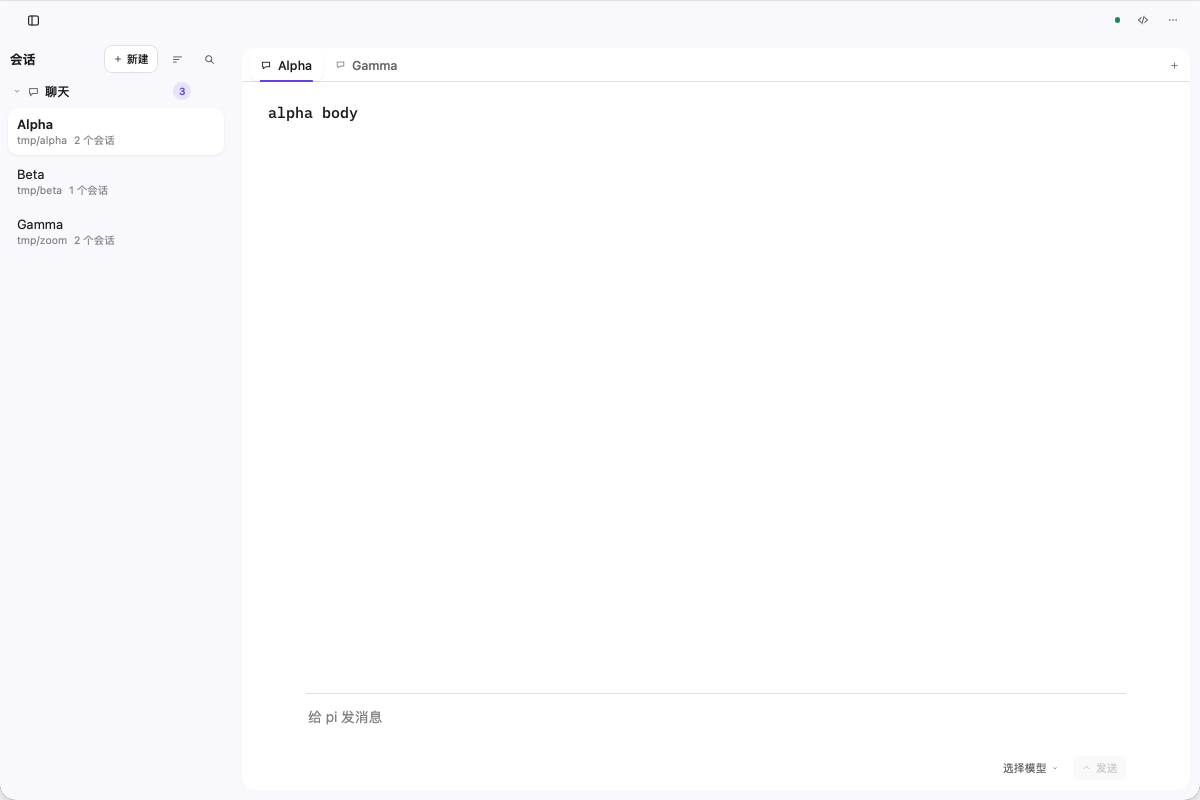
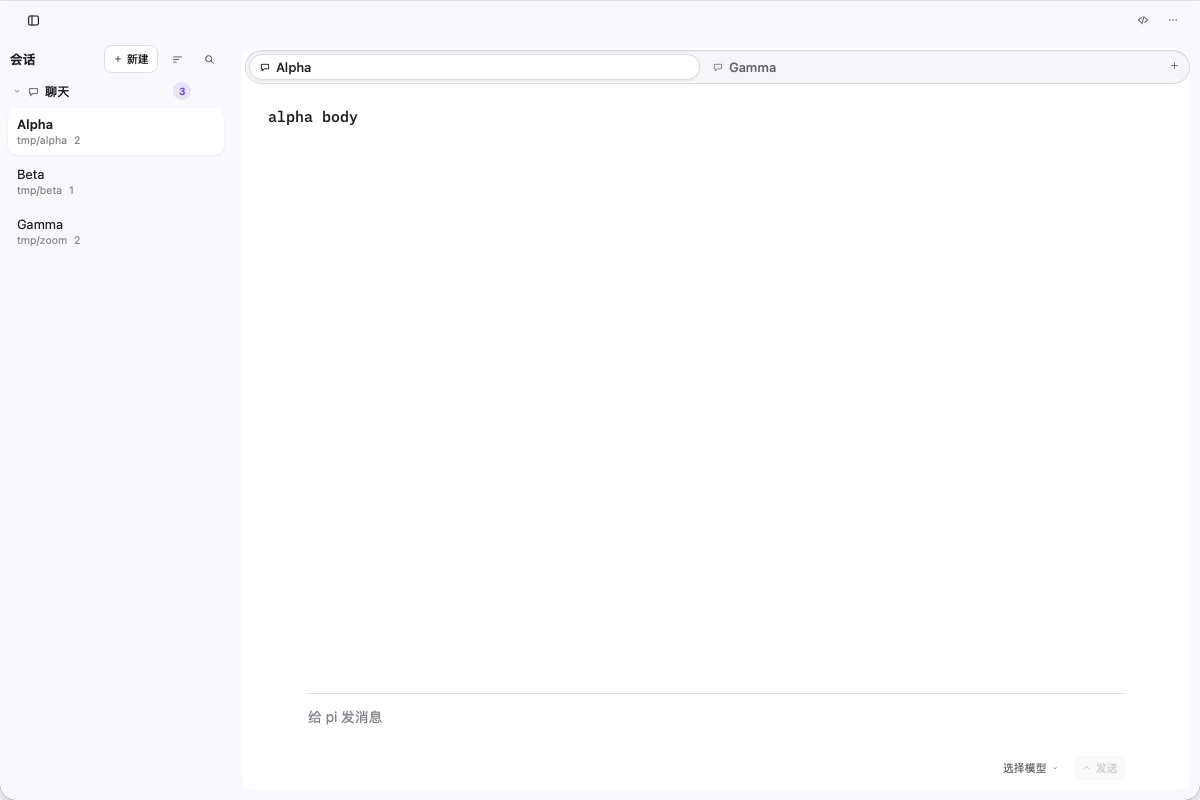
feat(shell): the sheet tabs become the gallery's section switcher
The canvas's tab bar takes the gallery's `tabsLook` ("A section switcher",
`examples/nsh-gallery-ui/look/tabs.tsx`): a capsule track sunk into the
card, the tabs sharing it, the selected tab a pill standing off the track.
The look is ported (`switcherTrack` / `switcherPill` / `switcherTabFrame` in
`ui/ui.tsx`), not its JSX: `DockArea` still owns placement, drag and drop.

The gallery's pill is one native indicator the core springs across the
track; `DockArea` reports no tab bounds, so here it cross-fades between two
tabs instead (180 ms). DESIGN §3.2 records the geometry and the trade.

- theme: `shadow-inset` (the track's top lip) instead of a raw rgba
- `motion.medium` eases `border-color`, so a pill takes its edge with it
- the 2pt brand underline goes; the glyph crosses over between two tints;
  the `+` keeps its 34pt strip inside the track's right end

Gates: `nsh check app` ✓; `nsh test .` 215 cases, 207 passed, 8 skipped ✓.
Light-mode screenshot compared against the gallery's switcher.

diff --git a/app/shell/shell.tsx b/app/shell/shell.tsx
@@ -37,7 +37,7 @@ import { setShellActions } from "../core/shell-actions";
 import { K, t } from "../ui/i18n";
 import { openActiveInVSCode } from "./vscode";
 import { containerMatches } from "./search";
-import { Chip, Dot, Glyph, type GlyphName, motionStyle, shadowCard, shadowRaised } from "../ui/ui";
+import { Chip, Dot, Glyph, type GlyphName, motionStyle, shadowCard, shadowRaised, switcherPill, switcherTabFrame, switcherTrack } from "../ui/ui";
 import { TabBarPlus } from "../canvas/tab-plus";
 
 /**
@@ -613,6 +613,24 @@ function canvasPanels(): Array<{ id: string; closable: boolean }> {
 }
 
 /**
+ * A switcher tab's glyph, two tints crossing over (the gallery's
+ * `TabTitle`): the quiet one fades out as the selected one fades in, both
+ * drawn in the same box so nothing shifts.
+ */
+function SwitcherGlyph(props: { panel: string; active: boolean }) {
+  return (
+    <View style={{ width: 12, height: 12, flexShrink: 0 }}>
+      <View style={{ position: "absolute", opacity: props.active ? 0 : 1, ...motionStyle("fast") }}>
+        <Glyph name={sheetGlyph(props.panel)} size={12} tint={token("faint")} />
+      </View>
+      <View style={{ position: "absolute", opacity: props.active ? 1 : 0, ...motionStyle("fast") }}>
+        <Glyph name={sheetGlyph(props.panel)} size={12} tint={token("foreground")} />
+      </View>
+    </View>
+  );
+}
+
+/**
  * The canvas: the sheet tree and nothing else. Every surface here is a sheet
  * — a container's conversation, terminal, browser, Hero, or the scratch
  * canvas's Hero — so there is no page state to fall out of step with the
@@ -654,22 +672,24 @@ function Canvas() {
         onZoomChange={({ panel }) => setZoom(panel)}
         onPanelActiveChange={({ panel, active }) => onPanelActive(panel, active)}
         groupClass="flex-1 bg-background overflow-hidden"
-        tabBarClass="flex-row items-end gap-0.5 border-b border-line bg-card px-2"
-        // The right strip is the `+`'s: a tab never ends under the overlay.
-        tabBarStyle={{ height: 34, paddingRight: 30 }}
-        tabClass="group focus-visible:outline-2 focus-visible:outline-ring focus-visible:outline-offset-[-1px] active:opacity-80"
+        // The switcher's capsule track (DESIGN §3.2): the bar is the track,
+        // sunk into the card, and the `+` sits in its right end (the
+        // trailing padding is the overlay's strip, so no tab ends under it).
+        // 2–3pt of card around the capsule: it is a control on the surface,
+        // not the surface's edge (the card's own corners clip at 14).
+        tabBarClass="flex-row"
+        tabBarStyle={{ ...switcherTrack(), marginLeft: 3, marginTop: 2, marginBottom: 2, paddingRight: 3 + 34 }}
+        tabStyle={switcherTabFrame()}
+        tabClass="group focus-visible:outline-2 focus-visible:outline-ring focus-visible:outline-offset-0 active:opacity-80"
         contentClass="flex-1 bg-background overflow-hidden"
         handleClass="basis-px bg-line"
         dropIndicatorClass="rounded-lg border-2 border-brand bg-brand-tint"
         renderDragPreview={(tab) => (
           // The ghost: a tab's shape that follows the pointer (DESIGN §3.7) —
           // card, shadow, its own icon and title.
-          <View
-            class="h-8 flex-row items-center gap-1.5 rounded-lg px-2.5 bg-card"
-            style={{ width: 144, boxShadow: shadowCard() }}
-          >
-            <Glyph name={sheetGlyph(tab.panel)} size={11.5} tint={token("foreground")} />
-            <Text class="text-[12.5px] font-medium text-foreground" style={{ numberOfLines: 1 }}>
+          <View class="bg-card" style={{ width: 144, ...switcherPill(true) }}>
+            <Glyph name={sheetGlyph(tab.panel)} size={12} tint={token("foreground")} />
+            <Text class="text-[13px] font-medium text-foreground" style={{ numberOfLines: 1 }}>
               {sheetTitle(tab.panel)}
             </Text>
           </View>
@@ -684,25 +704,18 @@ function Canvas() {
           )
         }
         renderTab={(tab) => (
-          // Chrome-style widths (DESIGN §3.2): 72–240, squeezed evenly when
-          // the panel narrows or tabs multiply; the title truncates.
+          // A switcher tab (DESIGN §3.2, the gallery's `tabsLook`): the
+          // selected one a pill standing off the track, the others bare until
+          // the pointer. The tabs share the track equally (`switcherTabFrame`)
+          // and squeeze together at 72pt, where the title truncates.
           <View
-            class={`relative h-8 flex-row items-center gap-1.5 rounded-lg px-2.5 ${tab.active ? "bg-card" : "hover:bg-hover"}`}
-            style={{
-              minWidth: 72,
-              maxWidth: 240,
-              flexGrow: 0,
-              flexShrink: 1,
-              borderRadius: 8,
-              backgroundColor: tab.active ? token("card") : "transparent",
-              boxShadow: tab.active ? shadowCard() : "none",
-              ...motionStyle("medium"),
-            }}
+            class={`relative min-w-0 ${tab.active ? "" : "hover:bg-hover"}`}
+            style={switcherPill(tab.active)}
           >
-            <Glyph name={sheetGlyph(tab.panel)} size={11.5} tint={tab.active ? token("foreground") : token("faint")} />
+            <SwitcherGlyph panel={tab.panel} active={tab.active} />
             <Text
-              class={`min-w-0 flex-1 text-[12.5px] font-medium ${tab.active ? "text-foreground" : "text-muted-foreground"}`}
-              style={{ numberOfLines: 1 }}
+              class="min-w-0 flex-1 text-[13px] font-medium"
+              style={{ numberOfLines: 1, color: tab.active ? token("foreground") : token("muted-foreground"), ...motionStyle("fast") }}
             >
               {sheetTitle(tab.panel)}
             </Text>
@@ -714,15 +727,12 @@ function Canvas() {
                 role="button"
                 testID={`tab-close-${tab.panel}`}
                 accessibilityLabel={t(K.canvas.closeSheet, { name: sheetTitle(tab.panel) })}
-                class="absolute right-1 top-1.5 size-5 items-center justify-center rounded-md opacity-0 transition-opacity group-hover:opacity-100 hover:bg-raised"
+                class="absolute right-0.5 top-[3px] size-5 items-center justify-center rounded-md opacity-0 transition-opacity group-hover:opacity-100 hover:bg-raised"
                 onPress={() => void closeSheet(tab.panel)}
               >
                 <Glyph name="close" size={10} tint={token("muted-foreground")} />
               </View>
             </If>
-            {tab.active ? (
-              <View class="absolute bottom-[-1px] left-2.5 right-2.5 h-0.5 rounded-full bg-primary" style={{ pointerEvents: "none" }} />
-            ) : null}
           </View>
         )}
         renderPanel={(panel) => <SheetBody id={panel.id} />}

diff --git a/app/ui/ui.tsx b/app/ui/ui.tsx
@@ -1,4 +1,4 @@
-import { Canvas, type CanvasRenderingContext2D, reduceMotion, Text, token, View } from "nsh";
+import { Canvas, type CanvasRenderingContext2D, reduceMotion, Text, token, View, type ViewStyle } from "nsh";
 import { Scrollbar } from "nsh/base";
 
 /**
@@ -64,7 +64,7 @@ const motion = {
     transitionTimingFunction: "ease-out" as const,
   },
   medium: {
-    transitionProperty: "background-color, opacity, box-shadow",
+    transitionProperty: "background-color, opacity, box-shadow, border-color",
     transitionDuration: 180,
     transitionTimingFunction: "ease-out" as const,
   },
@@ -88,6 +88,69 @@ export function shadowRaised(): string {
 /** The topmost decision layer: dialogs. */
 export function shadowDialog(): string {
   return `0 2px 6px ${token("shadow")}, 0 18px 44px ${token("shadow-strong")}`;
+}
+
+/** The shade inside a sunk surface: a track's or a well's top lip. */
+export function shadowInset(): string {
+  return `inset 0 1px 1px ${token("shadow-inset")}`;
+}
+
+/** A section switcher's track height (the sheet tab bar's own, DESIGN §3.2). */
+export const SWITCHER_HEIGHT = 34;
+/** A switcher tab's pill height: the track minus its border and 3pt inset. */
+export const SWITCHER_PILL = 26;
+
+/**
+ * The section switcher's look, clean-room after the gallery's `tabsLook`:
+ * a capsule track sunk into the card (`shadowInset`), the tabs sharing it,
+ * and the selected tab a pill standing off the track (`shadowCard`). The
+ * gallery's pill is one native indicator the core springs to the next tab;
+ * `DockArea` places each tab itself and reports no bounds, so here the pill
+ * travels by cross-fading between two tabs instead (180 ms, `medium`) —
+ * the same look, one interaction short of the gallery's spring.
+ */
+export function switcherTrack(): ViewStyle {
+  return {
+    height: SWITCHER_HEIGHT,
+    flexDirection: "row",
+    alignItems: "center",
+    gap: 2,
+    paddingHorizontal: 3,
+    borderRadius: SWITCHER_HEIGHT / 2,
+    borderWidth: 1,
+    borderColor: token("border"),
+    backgroundColor: token("inset"),
+    boxShadow: shadowInset(),
+  };
+}
+
+/** One switcher tab: the pill while selected, nothing but its label otherwise. */
+export function switcherPill(active: boolean): ViewStyle {
+  return {
+    height: SWITCHER_PILL,
+    borderRadius: SWITCHER_PILL / 2,
+    // A clear edge the selected pill takes over, so it keeps its size.
+    borderWidth: 1,
+    borderColor: active ? token("border") : "transparent",
+    backgroundColor: active ? token("card") : undefined,
+    boxShadow: active ? shadowCard() : "none",
+    flexDirection: "row",
+    alignItems: "center",
+    justifyContent: "center",
+    gap: 5,
+    paddingHorizontal: 9,
+    flexGrow: 1,
+    ...motionStyle("medium"),
+  };
+}
+
+/**
+ * The frame one switcher tab's host needs so a few tabs share the track and
+ * many still squeeze (the gallery's `fill`): the tab grows into an equal
+ * share of the bar, never past `minWidth` (a title truncates there).
+ */
+export function switcherTabFrame(): ViewStyle {
+  return { flexGrow: 1, flexBasis: 0, minWidth: 72 };
 }
 
 /**

diff --git a/docs/DESIGN.md b/docs/DESIGN.md
@@ -79,19 +79,28 @@ motionStyle()   // 用户在系统里减少动态效果时返回 {}
 
 一张卡片包住该容器的整个画布：页签条在卡片顶部，panels 与 composer 在卡片内。卡片本身 `overflow: hidden` + radius，panels 的分割线只画在卡片内部。切容器时卡片内容整体替换，窗口其余部分不动。
 
-### 3.2 页签（Chrome 式）
+### 3.2 页签（段落切换器）
+
+外壳的 sheet 页签条取画廊 `look/tabs.tsx` 的 `tabsLook`（"A section switcher"）：一条沉入卡片的
+胶囊轨道，选中的页签是一枚浮起的药丸。实现在 `ui/ui.tsx` 的 `switcherTrack()` / `switcherPill()`
+（`SWITCHER_HEIGHT` / `SWITCHER_PILL`），`shell/shell.tsx` 的 `DockArea` 两处消费。
 
 | 项 | 值 |
 |---|---|
-| 宽度 | `maxWidth 240`、`minWidth 72`、`flexShrink 1`、`flexGrow 0`：panel 变窄或页签增多时**均匀挤压**，标题截断 |
-| 高度 | 32pt，die 圆角 8 |
-| 活动态 | `card` 底 + `shadowCard` + 底部 2pt `primary` 指示器 |
-| 关闭控件 | 右侧 18pt 热区，`opacity 0` → hover 1，图标 `close` 10pt |
-| 新增页签 | 页签条最右常驻 `+`，在该 panel 打开 `home:{containerId}`（Hero） |
+| 轨道 | 高 34、`radius 17`、`inset` 底、1pt `border`、`shadowInset()` 内阴影；内边距 3、页签间距 2 |
+| 药丸 | 高 26、`radius 13`；选中 `card` 底 + `border` 边 + `shadowCard()`，未选透明（保留 1pt 透明边，选中时尺寸不变） |
+| 宽度 | **均分轨道**（画廊的 `fill`）：`switcherTabFrame()` 给每个页签 `flexGrow 1` + `flexBasis 0`，下限 72；页签增多时一起挤压，标题 13pt/500 截断 |
+| 图标 | 12pt，两档 tint 交叉淡入（未选 `faint`、选中 `foreground`，120ms） |
+| 悬停 | 未选页签 `hover` 底；选中不动 |
+| 关闭控件 | 右侧 20pt 热区，`opacity 0` → hover 1，图标 `close` 10pt |
+| 新增页签 | 轨道的右端留 34pt 给常驻 `+`（在轨道内，像 macOS 分段控件的尾部动作），在该 panel 打开 `home:{containerId}`（Hero） |
 
-`+` 是 20pt 的 ghost 按钮（图标 11pt、`muted-foreground`），垂直居中于组标题栏，标题栏右侧留 30pt
-给它——tab 只挤压到这条带之前。nsh 0.4.0 的 tab bar 没有尾部插槽，它由 app 覆盖层画在每组右端
-（[architecture.md](architecture.md) §4.2）。
+`+` 是 20pt 的 ghost 按钮（图标 11pt、`muted-foreground`），垂直居中于组标题栏。nsh 0.4.0 的
+tab bar 没有尾部插槽，它由 app 覆盖层画在每组右端（[architecture.md](architecture.md) §4.2）。
+
+画廊的选中药丸是一枚由内核 spring 移到下一格的 indicator；`DockArea` 自己摆放页签、不向 app
+报告各页签的 bounds，所以这里用两格之间的 180ms 交叉淡化代替位移动画——观感一致，少一个交互。
+**不要**为了位移动画自己接管 tab bar：拖拽换位、分组、`+` 的几何都在 `DockArea` 里。
 
 ### 3.3 顶栏无 picker（2026-11-11 调整）
 
